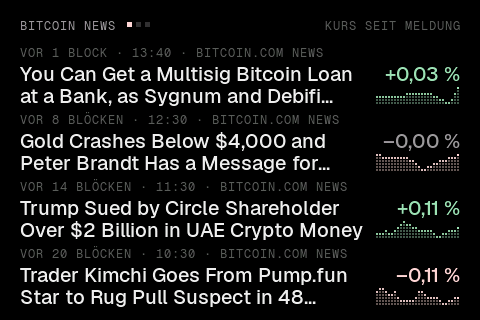
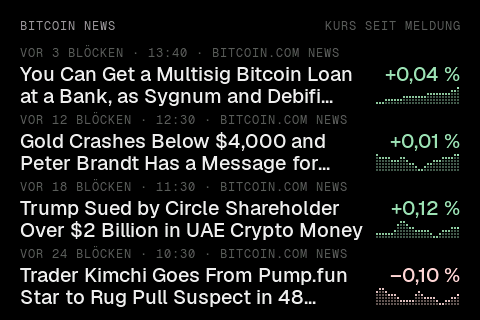
News: nur eine Seite mit den vier neuesten Schlagzeilen

diff --git a/firmware/main/ui.c b/firmware/main/ui.c
@@ -433,7 +433,6 @@ static bool s_animating;
 static bool s_booting = true; // Boot-Screen sichtbar: kein automatischer Seitenwechsel
 static struct { bool down, drag, long_pr; lv_point_t p0; int64_t t0; int dx; } SW;
 static void open_cfg(void);
-static void news_tap(int card);
 
 static bool card_on(int i) { return (g_settings.card_mask >> i) & 1; }
 
@@ -579,7 +578,6 @@ static void card_event_cb(lv_event_t *e)
         } else if (!SW.long_pr && !K.scrub && code == LV_EVENT_RELEASED) {
             if (p.x < W / 4) car_go(-1);
             else if (p.x > W * 3 / 4) car_go(1);
-            else news_tap(s_cur); // News: Mitte tippen zeigt die nächsten Schlagzeilen
         }
     }
 }
@@ -1304,24 +1302,21 @@ static void update_weather(deck_data_t *d)
     }
 }
 
-// ---- News: Bitcoin-Schlagzeilen (Crypto Vision oder RSS-Feed), vier je Seite, die Seiten wechseln von selbst
-// oder per Tippen in die Mitte. Zu jeder Meldung steht rechts, wie sich der Kurs seitdem bewegt hat – Prozent und
-// Mini-Kurve aus Punkten, hellgrün gestiegen, pink gefallen – und ihr Alter in Blöcken statt Minuten.
-#define NW_ROWS 4
+// ---- News: die vier neuesten Bitcoin-Schlagzeilen (Crypto Vision oder RSS-Feed). Zu jeder Meldung steht rechts,
+// wie sich der Kurs seitdem bewegt hat – Prozent und Mini-Kurve aus Punkten, hellgrün gestiegen, pink gefallen –
+// und darüber ihr Alter in Blöcken statt Minuten.
+#define NW_ROWS NEWS_N
 #define NW_Y0 42        // erste Zeile
 #define NW_RH 67        // Zeilenhöhe
 #define NW_TW 344       // Breite der Schlagzeile
 #define NW_CX 376       // Mini-Kurven: x
 #define NW_COLS 28      // Spalten der Mini-Kurve (3 px Abstand)
 #define NW_LEVELS 6     // Punkte übereinander
-#define NW_PAGE_MS 9000 // so lange steht eine Seite
 #define NW_PINK0 240    // Palette der Mini-Kurven: 8 Stufen Pink, danach 8 Stufen Grün
 #define NW_GREEN0 248
 static canvas8_t NWC;
 static struct {
-    lv_obj_t *tile, *dot[NEWS_N / NW_ROWS], *meta[NW_ROWS], *title[NW_ROWS], *chg[NW_ROWS], *msg;
-    int page;
-    int64_t t_page; // ms
+    lv_obj_t *tile, *meta[NW_ROWS], *title[NW_ROWS], *chg[NW_ROWS], *msg;
 } NW;
 
 // Kurs (USD) zum Zeitpunkt ts aus der Kursreihe (7,5 Tage); nach deren letztem Punkt bis zum aktuellen Kurs
@@ -1377,16 +1372,9 @@ static void nw_spark(int r, const deck_data_t *d, int64_t ts, int64_t now, doubl
     }
 }
 
-static void news_render(const deck_data_t *d, bool fade)
+static void news_render(const deck_data_t *d)
 {
     const news_t *nw = &d->news;
-    int pages = (nw->n + NW_ROWS - 1) / NW_ROWS;
-    if (NW.page >= pages) NW.page = 0;
-    for (int i = 0; i < NEWS_N / NW_ROWS; i++) {
-        if (i < pages && pages > 1) lv_obj_clear_flag(NW.dot[i], LV_OBJ_FLAG_HIDDEN);
-        else lv_obj_add_flag(NW.dot[i], LV_OBJ_FLAG_HIDDEN);
-        lv_obj_set_style_bg_color(NW.dot[i], i == NW.page ? C_PINK : C_LINE2, 0);
-    }
     memset(NWC.px, 0, NWC.w * NWC.h);
     lv_label_set_text(NW.msg, nw->n ? "" : nw->err[0] ? nw->err : "Lade Schlagzeilen …");
     int64_t now = time(NULL);
@@ -1395,13 +1383,13 @@ static void news_render(const deck_data_t *d, bool fade)
     struct tm today, tm;
     localtime_r(&tt, &today);
     for (int r = 0; r < NW_ROWS; r++) {
-        int k = NW.page * NW_ROWS + r;
-        lv_obj_t *ls[3] = {NW.meta[r], NW.title[r], NW.chg[r]};
-        if (k >= nw->n) {
-            for (int i = 0; i < 3; i++) lv_label_set_text(ls[i], "");
+        if (r >= nw->n) {
+            lv_label_set_text(NW.meta[r], "");
+            lv_label_set_text(NW.title[r], "");
+            lv_label_set_text(NW.chg[r], "");
             continue;
         }
-        const news_item_t *it = &nw->item[k];
+        const news_item_t *it = &nw->item[r];
         // Alter in Blöcken · Uhrzeit (heute) bzw. Datum · Quelle
         char age[40] = "", when[16] = "", src[32], b[160];
         int bl = net_time_valid() ? blocks_since(d, it->ts) : -1;
@@ -1436,8 +1424,6 @@ static void news_render(const deck_data_t *d, bool fade)
             lv_label_set_text(NW.chg[r], "–");
             lv_obj_set_style_text_color(NW.chg[r], C_TEXT3, 0);
         }
-        if (fade)
-            for (int q = 0; q < 3; q++) lv_obj_fade_in(ls[q], 260, r * 70);
     }
     lv_obj_invalidate(NWC.cv);
 }
@@ -1445,13 +1431,8 @@ static void news_render(const deck_data_t *d, bool fade)
 static void build_news(lv_obj_t *t)
 {
     NW.tile = t;
-    lv_obj_t *h = cap(t, W, "BITCOIN NEWS", 'l', MX, 30);
+    cap(t, W, "BITCOIN NEWS", 'l', MX, 30);
     lv_obj_set_style_text_color(cap(t, W, "KURS SEIT MELDUNG", 'r', W - MX, 30), C_TEXT3, 0);
-    lv_obj_update_layout(h);
-    for (int i = 0; i < NEWS_N / NW_ROWS; i++) { // Seiten als Pixel
-        NW.dot[i] = rect(t, MX + lv_obj_get_width(h) + 12 + i * 9, 22, 5, 5, C_LINE2);
-        lv_obj_add_flag(NW.dot[i], LV_OBJ_FLAG_HIDDEN);
-    }
     canvas8_create(&NWC, t, NW_CX, NW_Y0, W - MX - NW_CX, NW_ROWS * NW_RH);
     for (int i = 0; i < 8; i++) {
         uint8_t a = 40 + i * 215 / 7;
@@ -1474,33 +1455,14 @@ static void build_news(lv_obj_t *t)
     NW.msg = txt(t, W, &font_m14, C_TEXT2, "Lade Schlagzeilen …", 'c', W / 2, 170);
 }
 
-static void news_tap(int card)
-{
-    if (card != CARD_NEWS) return;
-    data_lock();
-    deck_data_t *d = data_get();
-    if (d->news.n > NW_ROWS) {
-        NW.page++;
-        NW.t_page = esp_timer_get_time() / 1000;
-        news_render(d, true);
-    }
-    data_unlock();
-}
-
 static uint32_t v_news, v_news_px;
 static void update_news(deck_data_t *d)
 {
     static int64_t t_render;
     int64_t ms = esp_timer_get_time() / 1000;
     bool vis = s_card[s_cur] == NW.tile || (s_nb >= 0 && s_card[s_nb] == NW.tile);
-    if (!vis) NW.t_page = ms; // beim Hinblättern steht die Seite voll
-    if (vis && d->news.n > NW_ROWS && ms - NW.t_page >= NW_PAGE_MS) {
-        NW.page++;
-        NW.t_page = ms;
-        news_render(d, true);
-        t_render = ms;
-    } else if (d->news.ver != v_news || d->px_ver != v_news_px || (vis && ms - t_render > 30000)) {
-        news_render(d, false); // neue Daten oder alle 30 s: Alter und Kurs nachziehen
+    if (d->news.ver != v_news || d->px_ver != v_news_px || (vis && ms - t_render > 30000)) {
+        news_render(d); // neue Daten oder alle 30 s: Alter und Kurs nachziehen
         t_render = ms;
     }
     v_news = d->news.ver;

diff --git a/firmware/main/data.c b/firmware/main/data.c
@@ -370,6 +370,8 @@ static int fetch_weather(void)
 
 // ------------------------------------------------------------------ Bitcoin-News
 
+#define NEWS_PARSE 12 // so viele lesen, davon die neuesten NEWS_N behalten
+
 // Quellen in der Reihenfolge von NEWS_SOURCE_NAMES; Crypto Vision (cryptocurrency.cv) ohne Schlüssel,
 // die anderen als RSS-Feed
 static const struct { const char *url; bool rss; } NEWS_URL[NEWS_SOURCES] = {
@@ -496,7 +498,7 @@ static const char *xml_tag(const char *p, const char *end, const char *tag, int 
 static int news_rss(const char *x, news_item_t *out, const char *src)
 {
     int n = 0;
-    for (const char *p = x; n < NEWS_N && (p = strstr(p, "<item")) != NULL;) {
+    for (const char *p = x; n < NEWS_PARSE && (p = strstr(p, "<item")) != NULL;) {
         const char *end = strstr(p, "</item>");
         if (!end) break;
         int tl, dl;
@@ -520,7 +522,7 @@ static int news_cv(const cJSON *j, news_item_t *out)
     const cJSON *a;
     cJSON_ArrayForEach(a, cJSON_GetObjectItem(j, "articles"))
     {
-        if (n >= NEWS_N) break;
+        if (n >= NEWS_PARSE) break;
         const char *t = cJSON_GetStringValue(cJSON_GetObjectItem(a, "title"));
         const char *src = cJSON_GetStringValue(cJSON_GetObjectItem(a, "source"));
         if (!t || (src && !strcmp(src, "Stacker News"))) continue; // dort vor allem Forums-Threads
@@ -536,7 +538,7 @@ static int news_cv(const cJSON *j, news_item_t *out)
 static int fetch_news(void)
 {
     int src = g_settings.news_src < NEWS_SOURCES ? g_settings.news_src : 0;
-    news_item_t *it = heap_caps_calloc(NEWS_N, sizeof(news_item_t), MALLOC_CAP_SPIRAM);
+    news_item_t *it = heap_caps_calloc(NEWS_PARSE, sizeof(news_item_t), MALLOC_CAP_SPIRAM);
     if (!it) return 60000;
     char err[48] = "";
     int n = 0;
@@ -555,6 +557,7 @@ static int fetch_news(void)
             it[k] = it[k - 1];
             it[k - 1] = tmp;
         }
+    if (n > NEWS_N) n = NEWS_N;
     data_lock();
     if (n > 0) {
         memcpy(s_d.news.item, it, sizeof(news_item_t) * n);

diff --git a/firmware/main/data.h b/firmware/main/data.h
@@ -10,7 +10,7 @@
 #define HIST_PTS 240 // 1 h bei 15 s Abstand
 #define BLOCKS_N 6
 #define WX_DAYS 6 // Wetter: heute und die nächsten 5 Tage
-#define NEWS_N 12 // Schlagzeilen
+#define NEWS_N 4 // Schlagzeilen: die neuesten 4
 #define PXS_N 760 // Kursreihe für „Kurs seit Meldung“: 7,5 Tage in 15-Minuten-Schritten (Kraken)
 
 typedef enum { RANGE_24H = 0, RANGE_7D, RANGE_30D, RANGE_1Y } chart_range_t;

diff --git a/firmware/README.md b/firmware/README.md
@@ -30,7 +30,7 @@ endlos im Kreis: nach der letzten kommt wieder die erste, in beide Richtungen. A
 | 11 | Bitaxe | Vollbild: Name, IP/Status, Hashrate, Session/Best vs. Netzwerk, ASIC-/VR-Temperatur, Lüfter |
 | 12 | Mining-Kosten | aktueller Verbrauch des Bitaxe in W, Kosten pro Tag/Monat/Jahr samt kWh, Tageskosten in sats („Lotterielos“), gezählter Verbrauch heute und gesamt |
 | 13 | Share-Lotterie | jeder vom Bitaxe gefundene Hash live als Punkt im Histogramm (log. Skala) – links häufig, rechts selten, ganz rechts der Block; letzter/bester Hash, Hashes pro Minute, Abstand zum Block |
-| 14 | News | Bitcoin-Schlagzeilen (Crypto Vision, Blocktrainer oder Bitcoin Magazine), vier je Seite; zu jeder Meldung ihr Alter in Blöcken und wie sich der Kurs seitdem bewegt hat (Prozent und Mini-Kurve) |
+| 14 | News | die vier neuesten Bitcoin-Schlagzeilen (Crypto Vision, Blocktrainer oder Bitcoin Magazine); zu jeder Meldung ihr Alter in Blöcken und wie sich der Kurs seitdem bewegt hat (Prozent und Mini-Kurve) |
 
 Gestaltung im Stil von Strike (eigener Code): tiefschwarzer Grund, gedämpftes Weiß, Geist für große Zahlen,
 Geist Mono für Beschriftungen, feine Rahmen, Punktmatrix-Chart, Pixel-Mosaik als Kursverlauf.
@@ -112,8 +112,8 @@ Der Punkt neben dem Ort ist pink, solange die Daten aktuell sind (grau: älter a
 
 ## Bitcoin-News
 
-Die neuesten Bitcoin-Schlagzeilen, vier je Seite; die Seiten wechseln alle 9 Sekunden, ein Tippen in die
-Mitte der Karte blättert sofort weiter. Die Quelle wird auf der Browser-Seite unter „News“ gewählt:
+Die vier neuesten Bitcoin-Schlagzeilen auf einen Blick. Die Quelle wird auf der Browser-Seite unter „News“
+gewählt:
 
 - **Crypto Vision** ([cryptocurrency.cv](https://cryptocurrency.cv), auch „Free Crypto News API“; Standard):
   kostenlos und ohne Schlüssel, sammelt Bitcoin-Meldungen aus vielen Quellen (englisch). Forums-Threads
